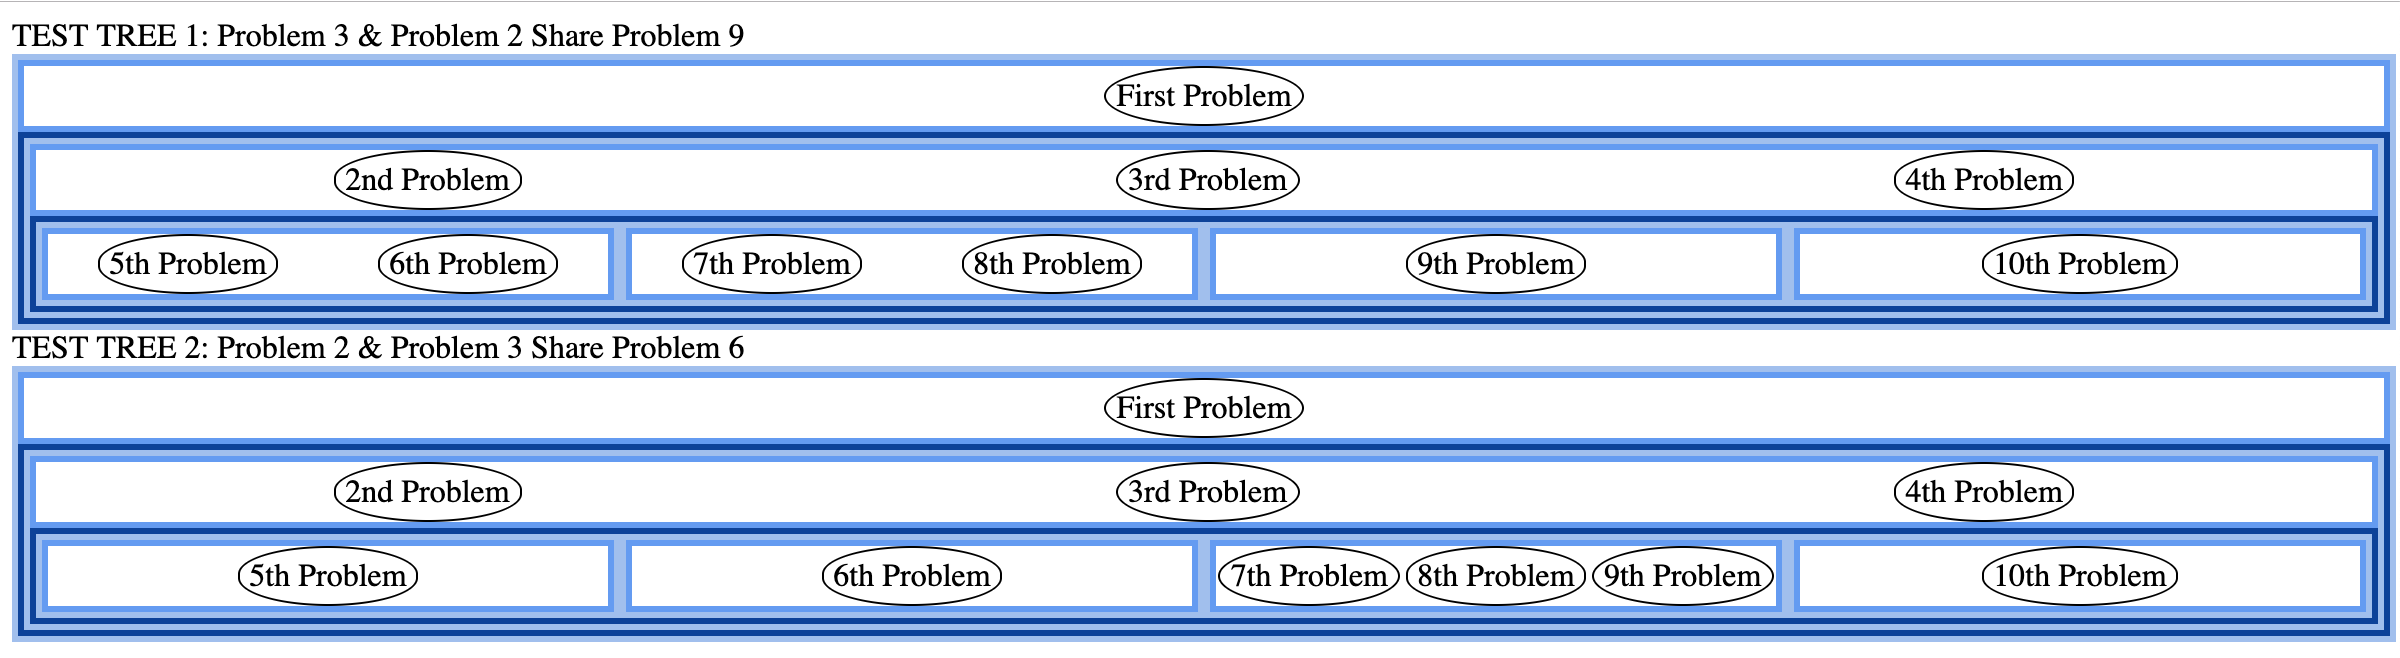
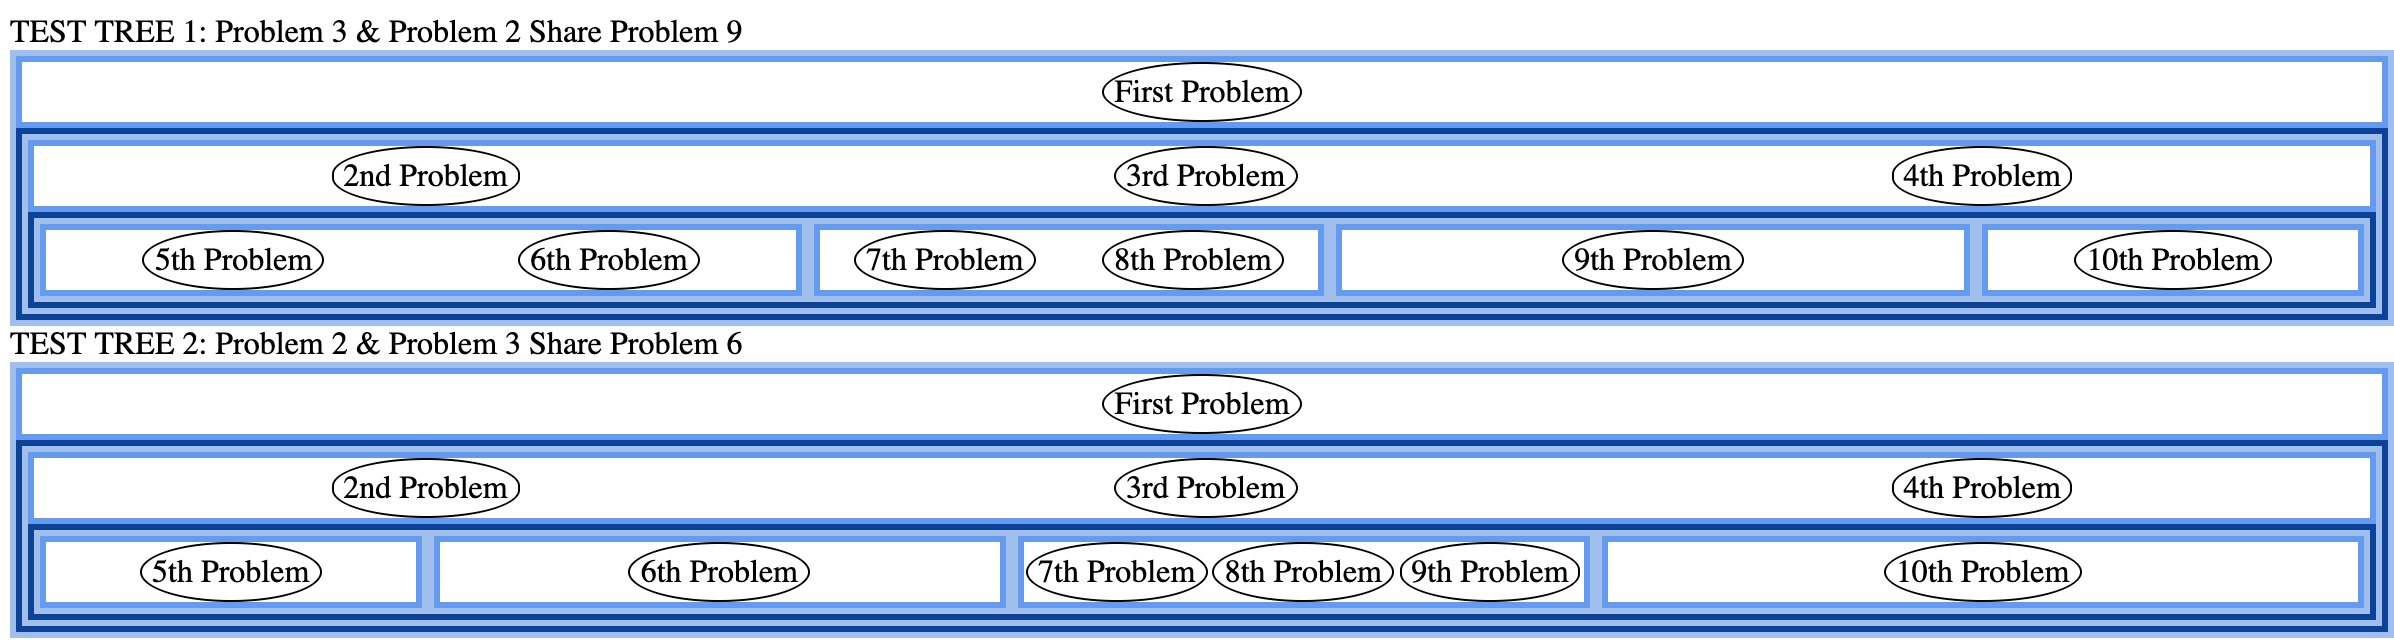
added dynamic spacing

diff --git a/index.js b/index.js
@@ -1,3 +1,5 @@
+
+//TEST DATA
 const startNode1 = [
   {
     'id': 0,
@@ -329,14 +331,24 @@ let uniqueArr = (array1, array2) => {
   return uniqueArray
 }
 
+let addExtraClass = (array) => {
+  extraClass = ''
+  array.map((item)=>{
+    if(item.hasSharedSibling) extraClass='hasSharedSibling'
+    if(item.parents.length > 1) extraClass='sharedChild'
+  })
 
-let populateTree = (function populateTree(nodes, sharedMapped = false){
+  return extraClass
+}
+
+
+let populateTree = (function populateTree(nodes, sharedMapped = false, extraClass=''){
 
   let hasChildren = false;
   let hasSharedChildren = false;
 
   let layer = document.createElement('div');
-  layer.setAttribute('class', 'layer');
+  layer.setAttribute('class', 'layer ' + extraClass);
 
   let tier = document.createElement('div');
   tier.setAttribute('class', 'tier');
@@ -360,6 +372,7 @@ let populateTree = (function populateTree(nodes, sharedMapped = false){
       hasSharedChildren = true;
 
     } else {
+      node.hasSharedSibling = true;
       holdingArr.push(node)
     }
 
@@ -372,7 +385,7 @@ let populateTree = (function populateTree(nodes, sharedMapped = false){
         subtier.appendChild(nodeChildren);
       } else {
         nodeChildren = uniqueArr(sharedChildren, nodeChildren)
-        nodeChildren.map((nodeArr)=>subtier.appendChild(populateTree(nodeArr, true)))
+        nodeChildren.map((nodeArr)=>subtier.appendChild(populateTree(nodeArr, true, addExtraClass(nodeArr))))
         sharedChildren = sharedChildren.concat(nodeChildren);
       }
     }
@@ -388,6 +401,43 @@ let populateTree = (function populateTree(nodes, sharedMapped = false){
 
   if(holdingArr.length) splitArr.push(holdingArr);
   if(hasSharedChildren) return splitArr;
+
+  // Adds Dynamic Spacing to SharedChildren
+  // TODO: Clean up dynamic spacing code
+  if(sharedChildren.length){
+
+    let flexFactor = nodes.length
+    let layers = subtier.querySelectorAll('.layer')
+
+    layers.forEach((layer)=>{
+      let nodeCount = layer.querySelector('.tier').childElementCount
+
+      if(layer.className.indexOf('hasSharedSibling')>0) {
+        nodeCount++
+        flexFactor = flexFactor * nodeCount
+      }
+    })
+
+    let flexRemain = flexFactor
+
+    layers.forEach((layer)=>{
+      let nodeCount = layer.querySelector('.tier').childElementCount
+      let layerNodeCount = nodeCount + 1
+      let flexGrow
+      if(layer.className.indexOf('hasSharedSibling')>0) {
+        flexGrow = ((flexFactor / nodes.length) / layerNodeCount) * nodeCount
+      } else if(layer.className.indexOf('sharedChild')>0){
+        return
+      } else {
+        flexGrow = flexFactor / nodes.length
+      }
+      flexRemain = flexRemain - flexGrow;
+      layer.style.flex = flexGrow;
+    })
+
+    let sharedChildLayer = subtier.querySelector('.sharedChild')
+    sharedChildLayer.style.flex = flexRemain
+  }
 
 
   nodesArray.forEach((child)=>tier.appendChild(child))

diff --git a/README.md b/README.md
@@ -19,9 +19,13 @@ My goal in this project is to create a browser visualization of a data tree stru
 
 **Next Steps**
 
+* Clean up code
+  * Refactor to make code more legible
+  * Possibly rename variables and functions for clarity
+
 * Add additional visual cues to map including:
-   * More intuitive and dynamic spacing between children nodes when there are shared child nodes
    * Add lines that are dynamically drawn between children and parent nodes to better represent tree connections
+   * Remove borders from tiers, layers, and divs
 
 * Add User Interface so that Users have the ability to:
   * Add or Delete Child Nodes
